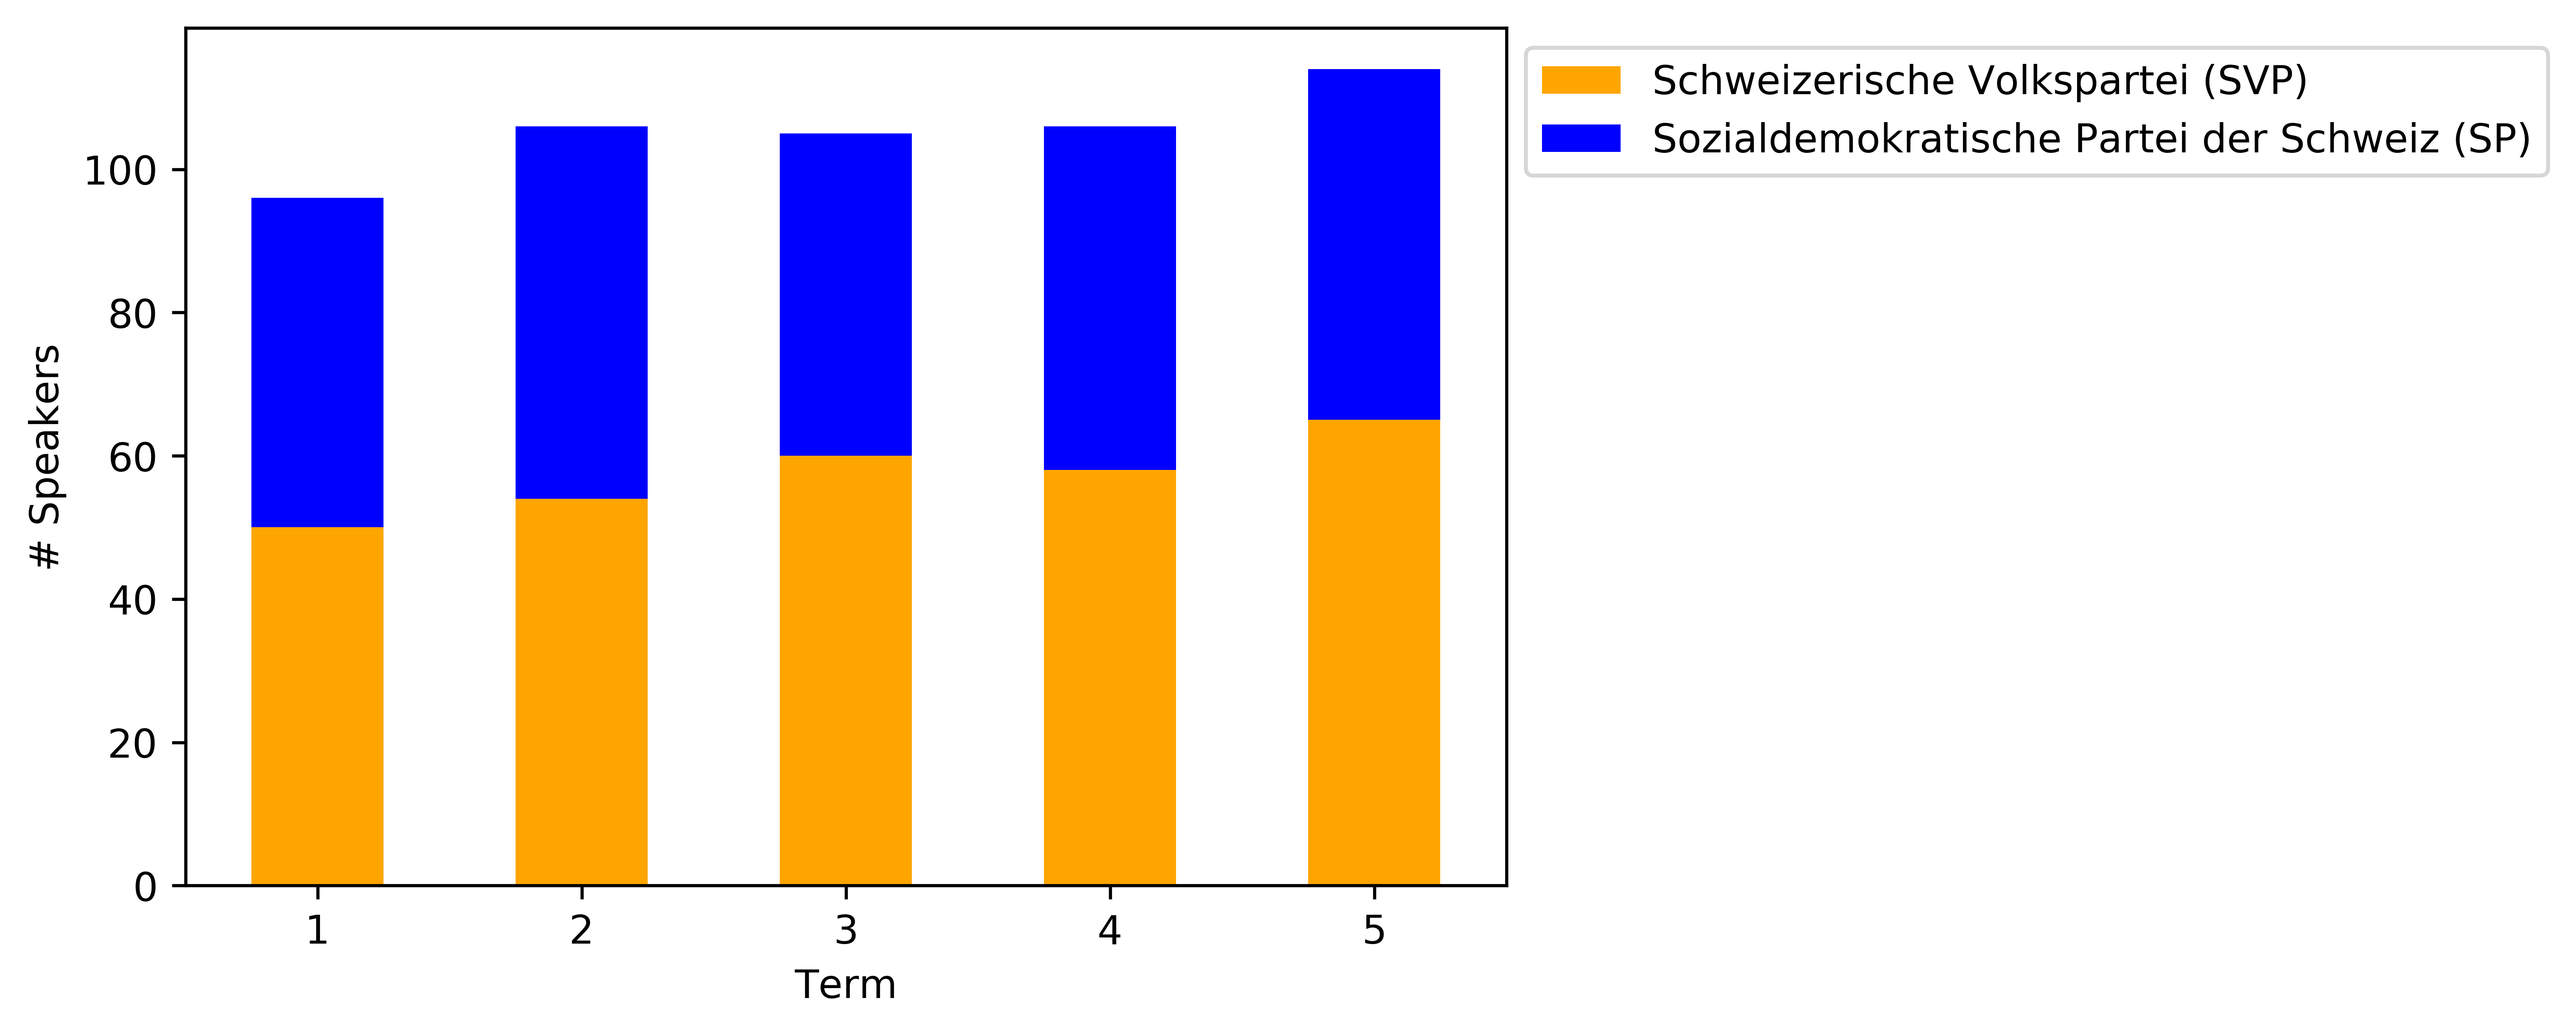
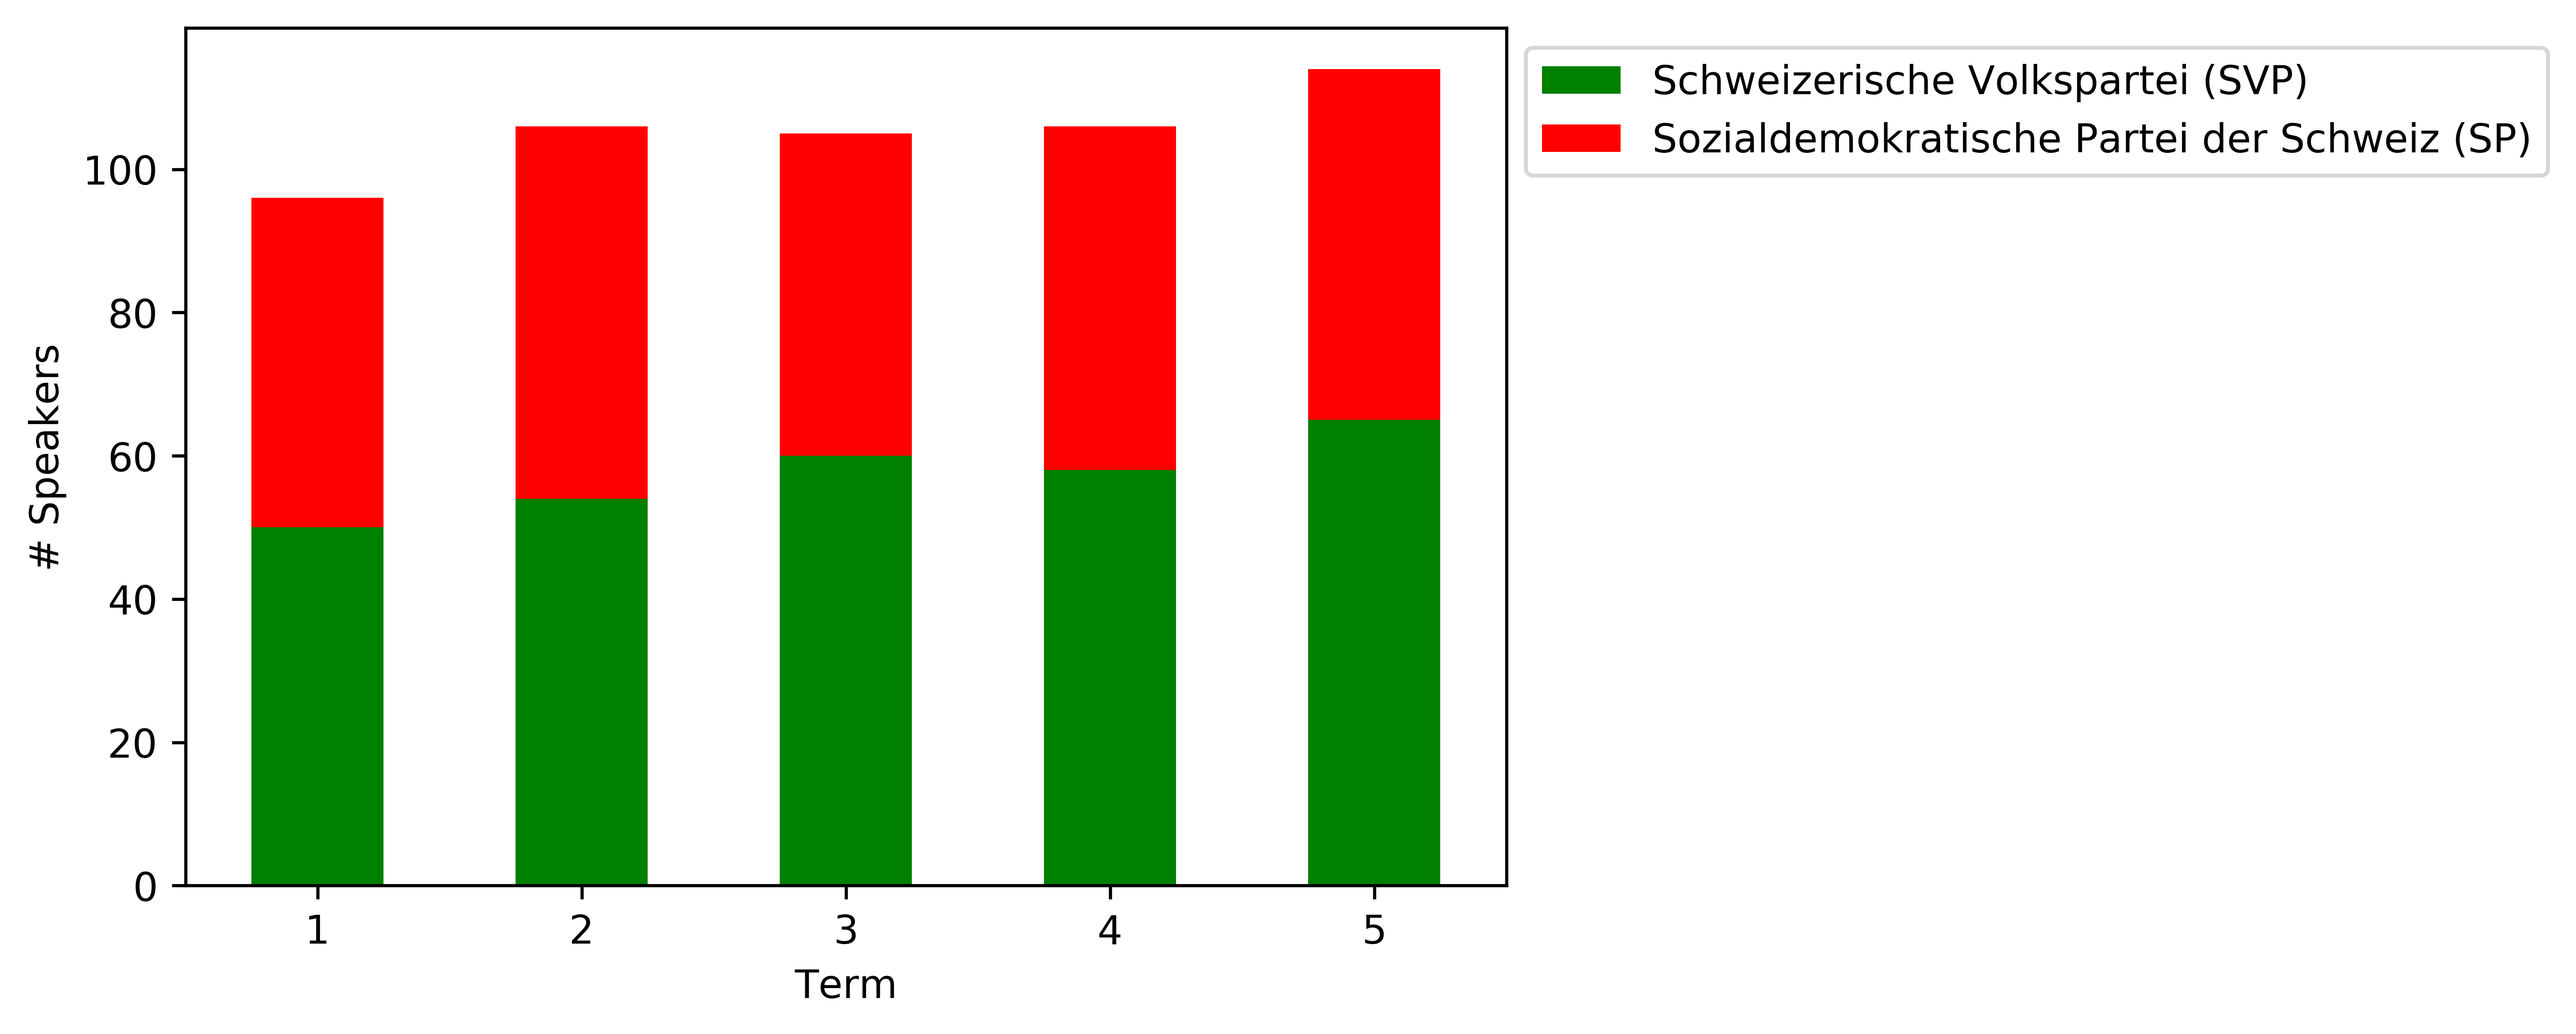
updatet graphs

diff --git a/Analysis/Graphs/results_graph.py b/Analysis/Graphs/results_graph.py
@@ -90,7 +90,7 @@ sumry_phrase2.set_ylabel('# Unique Phrases')
 sumry_phrase2.legend(bbox_to_anchor=(1,1))
 sumry_phrase2.get_figure().savefig('./summary_fixed_indiv_phrase_plot_P2.png', dpi=600,bbox_inches='tight')
 
-sumry_speaker2 = sumry[('Speaker','unique')].reset_index().pivot(index='Term',columns = 'Speaker Party', values=('Speaker', 'unique')).plot.bar(stacked=True,color = ['orange','blue','green','red'],rot=0)
+sumry_speaker2 = sumry[('Speaker','unique')].reset_index().pivot(index='Term',columns = 'Speaker Party', values=('Speaker', 'unique')).plot.bar(stacked=True,color = ['green','red'],rot=0)
 sumry_speaker2.set_ylabel('# Speakers')
 sumry_speaker2.legend(bbox_to_anchor=(1,1))
 sumry_speaker2.get_figure().savefig('./summary_fixed_indiv_speaker_plot_P2.png', dpi=600,bbox_inches='tight')
